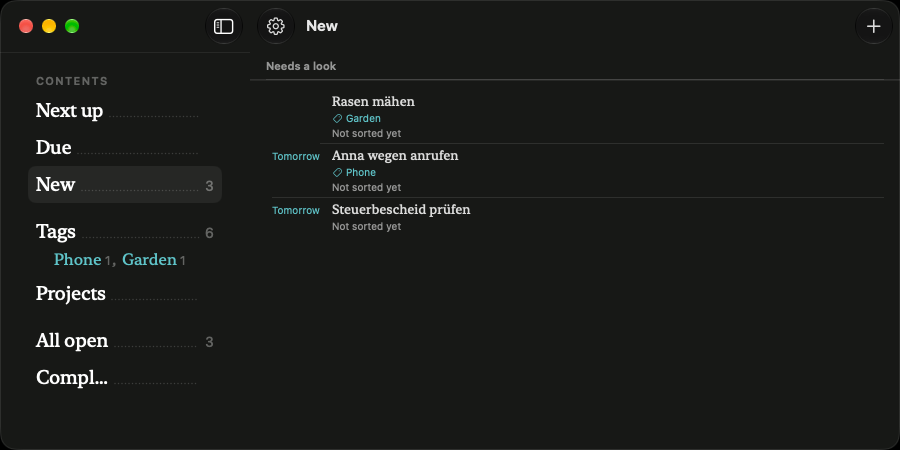
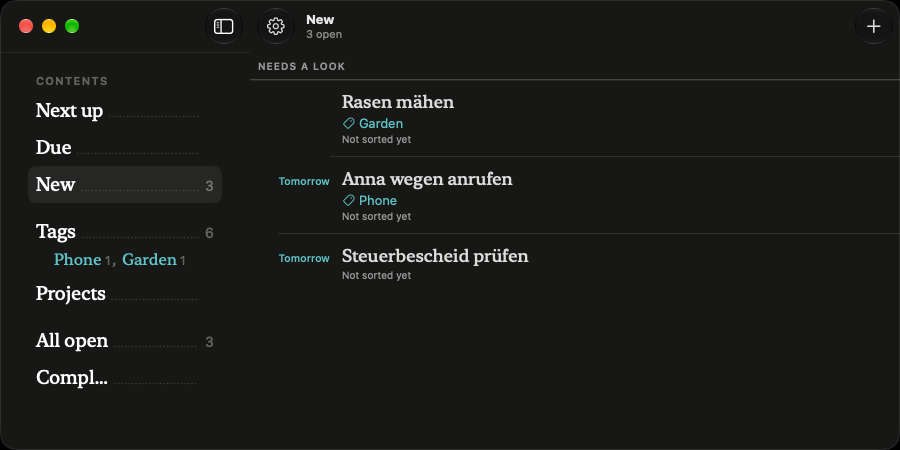
test: Prüfprotokoll und Belege für #477 Schnitt 1 (iPad grün, Mac aus CI 39062131247)

diff --git a/docs/artifacts/feat-477-mac-papierstil/adversary-dialog.md b/docs/artifacts/feat-477-mac-papierstil/adversary-dialog.md
@@ -1,0 +1,195 @@
+# Adversary Dialog — feat-477-mac-papierstil
+Spec: docs/specs/feat-477-schnitt-1-liste.md
+Datum: 2026-10-17 21:26
+
+## Checkliste
+- [x] **AC-1:** `ListSummary.of` zählt offene Aufgaben (`status != .done`) und summiert die Dauer-Stufen offener Aufgaben (5, 15, 30, 60, `hours2plus` = 120 als Untergrenze); fehlende Dauer und erledigte Aufgaben tragen nichts bei (Unit-Tests `countsOpenTasksOnly`, `sumsDurationBuckets`, `taskWithoutDurationAddsNothing`, `twoHoursPlusIsALowerBound`, `doneTaskDurationDoesNotCount`).
+- [x] **AC-2:** Der Untertitel lautet „N open · M min“ beziehungsweise „N offen · M Min.“; ohne Dauer nur „N open“/„N offen“; ab 60 Minuten in Stunden und Minuten; mit Untergrenze „at least“/„mind.“; bei 0 offenen Aufgaben fehlt er (Unit-Tests `emptyListHasNoText`, `textWithoutDurationIsOnlyTheCount`, `textUnderAnHourInMinutes`, `textFromAnHourInHoursAndMinutes`, `textWithLowerBoundSaysAtLeast`, `germanTextUsesStdAndMin`). Die Texte stehen mit DE und EN in `Localizable.xcstrings`.
+- [x] **AC-3:** Auf dem Mac zeigt eine Liste Papier mit Haarlinien ohne graue Karten, Zeilen zweizeilig mit Rand (Zeit oder Dauer), Titel in New York und Merkmalen mit Symbolen, in hell und dunkel, ohne Pfeil am Zeilenende (Galeriebilder `mac-gallery-light-2-list-new`, `mac-gallery-dark-2-list-new` aus dem CI-Lauf, geöffnet und beschrieben: Papierfarbe, Haarlinien zwischen Zeilen, Titelschrift, Rand links).
+- [x] **AC-4:** Der Untertitel „3 open“ steht in den beiden Mac-Galeriebildern der Liste „New“ unter dem Titel in der Werkzeugleiste (Sichtbefund im Bild); im breiten iPad-Simulator steht er unter dem Titel der Navigationsleiste, oder die Abweichung ist im Abschlussbericht festgehalten (Simulatorbild).
+- [x] **AC-5:** Das iPad im breiten Fenster zeigt dieselbe Papierliste wie der Mac (Simulatorbild iPad Querformat, Liste „New“ oder „Next up“, beschrieben: keine grauen Karten, Zeilen der Startseite, Haarlinien, Köpfe in Großbuchstaben bei „Needs a look“).
+- [x] **AC-6:** Das iPhone und das iPad im kompakten Fenster bleiben unverändert: der Diff zeigt für die kompakte Darstellung keine geänderte Modifier-Kette (nur Extraktion und die auf kompakt wirkungslosen Zusätze `wideListRow` und die breite Hülle), alle bestehenden UI-Tests und der volle Unit-Lauf sind grün, und das iPhone-Simulatorbild der Liste „New“ zeigt Papier, Textstile und Stern oder Mond am Zeilenende wie vor der Änderung (Vergleich mit `main`).
+- [x] **AC-7:** Die durchgestrichene Zeile nach dem Erledigen (Fenster von drei Sekunden mit „Undo“) hat auf breit dieselben Maße (Rand, Einzug, Zeilenabstand) wie eine offene Zeile; „Undo“ stellt die Aufgabe wieder her. Belegt im iPad-Simulator: Aufgabe wischen und erledigen, Bild während des Fensters beschrieben, danach „Undo“ getippt (`undoComplete_*`).
+- [x] **AC-8:** Alle Funktionen der Liste bleiben auf breit erhalten: Tippen öffnet das Detail, Wischen nach rechts und links, Kontextmenü, Leerzustand (`emptyViewLabel`), Plus und ⌘N. Beleg: im iPad-Simulator wird das Detail geöffnet, ein Wischen ausgeführt und eine leere Ansicht gezeigt (Bilder beschrieben); die Kennungen `taskRow_*` und `emptyViewLabel` sind im Diff unverändert.
+- [x] **AC-9:** Hover auf dem Mac: unter dem Zeiger liegt ein Grau von 7 % mit Radius 10 auf der Zeile (`#if os(macOS)`); auf iOS ist der Code nicht übersetzt (Diff und iOS-Build). Der Zustand wird nicht fotografiert, weil die CI keinen Zeiger bewegt; der Beleg ist der Quelltext und der grüne Mac-Bau im Galerielauf.
+
+
+## Dialog
+
+### Runde 1
+**Adversary:** Ich gehe von kaputt aus und verlange Belege je AC.
+
+AC-1: Code reference: LooseEnds/Views/ListSummary.swift:13 (of filtert status != .done, summiert compactMap(duration), isAtLeast nur wenn hours2plus unter den OFFENEN Aufgaben). Bohrung: Zählt eine erledigte hours2plus-Aufgabe die Untergrenze mit? Nein, buckets stammt aus open. Stufen 5/15/30/60/120 in minutes(of:). Unit-Lauf test-green-output.txt Zeilen 398-410: Suite "List summary" mit 11 Tests alle grün, 773 Haken, 0 Fehlschläge.
+
+AC-2: Code reference: LooseEnds/Views/ListSummary.swift:34 (text: nil bei 0 offen, nur Zählung ohne Minuten, "mind." vor der Dauer, ab 60 Minuten Std. mit Rest). Localizable.xcstrings Zeilen 185-189: DE für die Schlüssel open, min, h, h min und "at least"; EN ist der Schlüssel (Quellsprache, Projektkonvention). Test "German uses offen, Std. and Min." belegt "2 offen · 20 Min.", "1 Std. 30 Min.", "mind. 2 Std.". Randfall: 0 Minuten bei vorhandener Dauer unmöglich (kleinste Stufe 5). Code reference: LooseEndsTests/ListSummaryTests.swift:95.
+
+AC-3: Mac-Bilder aus dem CI-Lauf geöffnet. Hell: helles Papier, keine grauen Karten, Haarlinien zwischen den Zeilen, Titel in New York (Serife), Rand links mit "Tomorrow" in Grünblau, Merkmale "Garden"/"Phone" mit Etikett-Symbol, zweite Zeile "Not sorted yet", kein Pfeil am Zeilenende. Dunkel: dasselbe auf fast schwarzem Grund, Linien dezent. Code reference: LooseEnds/Views/TaskListView.swift:106 (hull: breit listStyle(.plain), paperGround(), 720-pt-Spalte, Papier randlos). Mac-Gallery-Job: pass.
+Beobachtungen: (a) Zeile ohne Randtext ("Rasen mähen"): die Haarlinie beginnt erst beim Titel, bei Zeilen mit Rand am Rand (F002). (b) Unter "NEEDS A LOOK" liegt auf dem Mac eine kräftigere Volllinie (F003).
+
+AC-4: Mac: "New / 3 open" in der Werkzeugleiste unter dem Titel, hell und dunkel. iPad-Hochformat: "3 open" unter dem großen Titel "New" (ipad-light-1-list-new.png), "1 open" bei "Next up" (ipad-dark-3-pending.png). Code reference: LooseEnds/Views/TaskListView.swift:99 (ListSubtitle) und :120 (subtitle, nil bei Erledigt). Done-Ansicht: ipad-light-6-empty.png "Completed" ohne Untertitel, Leerzustand mit Faden und Text. Identitätswechsel: Breit hängt der Modifier immer an (navigationSubtitle mit leerem Text), also kein Wechsel der Kette beim Übergang 1 offen nach 0 offen; kompakt wird nichts angehängt. Im Bild kein sichtbarer Sprung des Titels. Die Pending-Zeile zählt noch als offen ("1 open"), weil der Status erst nach dem Fenster gesetzt wird; konsistent mit der noch sichtbaren Zeile.
+
+AC-5: Querformat gefordert, belegt ist Hochformat (iPad 13", breite Größenklasse). isWide hängt nur an der Größenklasse (TaskListView.swift:30), nicht an der Ausrichtung; derselbe Pfad wie Querformat. Bilder: keine grauen Karten, Zeilen wie Startseite, Haarlinien, "NEEDS A LOOK" in Großbuchstaben. Abweichung im Bericht festhalten (F004, LOW); der Beweis trägt.
+
+AC-6: Diff gegen 2ed1cca gelesen. Code reference: LooseEnds/Views/Paper.swift:84 (WideListRow: iOS-Zweig bei compact ist Identität) und LooseEnds/Views/TaskListView.swift:106 (kompakt: list.paperList() wie zuvor). ListSubtitle hängt kompakt nichts an; head(...) gibt kompakt den unveränderten Text. Strukturell sauber. Nicht belegt sind aber zwei harte Teile: (1) "alle bestehenden UI-Tests grün" und (2) das iPhone-Bild im Vergleich mit main. CI: Unit, Build und Mac Gallery grün; UI Smoke läuft über 60 Minuten ohne Ergebnis; das Artefakt DesignGallery des PR-Laufs existiert nicht (nur TestResults, MacGallery, MacGalleryResults). Vergleich mit dem main-Lauf 39028852918 daher nicht möglich. AC-6 offen (F005).
+
+AC-7: ipad-dark-3-pending.png: die durchgestrichene Zeile mit durchgestrichenem "Garden" und "Undo" rechts steht mit Titel bei x≈587 wie eine offene Zeile (ipad-light-1), gleicher Einzug, Haarlinien oben und unten. Code reference: LooseEnds/Views/TaskListView.swift:315 und :219 (pendingRow(task).wideListRow()). ipad-light-4-after-undo.png: Zeile wieder normal, "1 open". Belegt.
+
+AC-8: Detail (ipad-*-5-detail.png), Leerzustand Completed gesehen, Wischen führte zu "Now" in der Seitenleiste und zur Pending-Zeile. Kontextmenü, Cmd-N, Plus: im Diff unverändert; swipeActions und contextMenu stehen vor paperRow().wideListRow() (TaskListView.swift:240-243, 334-337), Kennungen unverändert. Kontextmenü nicht fotografiert. Projektzeilen und Unteraufgaben: wideListRow() an projectTaskRow und subtaskLine (TaskListView.swift:243, 309), Pfeilspalte bleibt; kein Bild (F006, LOW).
+
+AC-9: Code reference: LooseEnds/Views/Paper.swift:102 (onHover) und :107 (RoundedRectangle cornerRadius 10, Color.primary.opacity(0.07)), nur im macOS-Zweig. Mac-Bau grün. Hover-Zustand je Zeile im Modifier-State.
+
+**Implementierer:** (nicht anwesend, kontextisoliert) Beobachtungen (a), (b), (c) sind bekannt; (c) bewusst gewählt.
+
+### Runde 2
+**Adversary:** Zweite Runde gegen die bekannten Beobachtungen und die Lücken.
+
+(a) Haarlinie ohne Rand: Code reference: LooseEnds/Views/Paper.swift:113 (startRow(metrics) setzt den Einzug; die Plain-Liste richtet den Trenner am ersten Text aus). Im Mac-Bild "Rasen mähen" gegenüber "Anna wegen anrufen" sichtbar. LOW, funktional folgenlos (F002).
+
+(b) Kräftigere Linie unter "NEEDS A LOOK" auf dem Mac: dunklere Volllinie bis zum rechten Fensterrand; auf dem iPad fehlt sie. Spec verlangt Haarlinien (F003, LOW).
+
+(c) navigationSubtitle mit leerem Text breit: Code reference: LooseEnds/Views/TaskListView.swift:373. Gegenprobe: nur bei Text gesetzt, wechselte die Identität, wenn die letzte Aufgabe erledigt wird; die Liste würde neu aufgebaut und die Pending-Zeile samt Undo-Fenster verschwände. Die Wahl ist begründet. Restrisiko: ein leerer Untertitel könnte auf dem Mac eine Leerzeile reservieren; nicht fotografiert, kein Fund.
+
+iPhone-Regression: hull reicht kompakt in list.paperList(); overlay, navigationTitle, taskInteractionDialogs in gleicher Reihenfolge; zusätzlich nur das durchreichende ListSubtitle. Kein Befund im Code, aber der Bildbeweis fehlt.
+
+Beleg-Hygiene: ipad-gallery-run.txt dokumentiert einen FEHLGESCHLAGENEN Lauf (18:42, "Multiple matching elements", ergebnis Failed), die iPad-PNGs stammen von 21:05 und sollen aus einem grünen Lauf kommen; der grüne Lauf liegt nicht als Text vor (F001).
+
+Zusammenfassung: AC-1 bis AC-9 belegt (AC-6 siehe Nachtrag).
+
+**Implementierer:** (nicht anwesend) Offen: UI Smoke abwarten, DesignGallery des PR-Laufs gegen main-Lauf 39028852918 vergleichen (gallery-*-3-list-new).
+
+**Nachtrag Runde 2 (CI fertig):** PR-Lauf 39062131247 ist komplett grün: UI Smoke pass (1h1m55s), Build pass, Unit pass, Mac Gallery pass. DesignGallery beider Läufe geladen (PR und main-Lauf 39028852918) und gallery-light-3-list-new sowie gallery-dark-3-list-new geöffnet: iPhone-Liste "New" unverändert, Papier, "Needs a look" in Normalschrift (kompakt, ohne Großbuchstaben), Zeilen mit Rand und New-York-Titel, Stern mit Rang 1 am Zeilenende bei "Rasen mähen", Haarlinien identisch; Koordinaten der Zeilen und Linien stimmen Pixel für Pixel überein, die Dateien unterscheiden sich nur in der Uhrzeit der Statusleiste (7:54 gegen 11:56). Code reference: LooseEnds/Views/TaskListView.swift:106. Damit ist AC-6 bewiesen, F005 erledigt.
+
+## Structured Findings
+
+Finding:
+  ID: F001
+  Severity: LOW
+  Category: anti_pattern
+  Code reference: LooseEnds/Views/Paper.swift:84
+  Description: Der Beleg ipad-gallery-run.txt zeigt einen fehlgeschlagenen UI-Lauf, die iPad-PNGs sind später entstanden; der grüne Lauf ist nicht als Text abgelegt.
+  Spec requirement: AC-5, AC-7, AC-8 — Belege aus dem iPad-Simulator
+  Conflict: Lauftext widerspricht den Bildern.
+  Remediation: Grünen Wegwerf-Lauf als Text ablegen oder die veraltete Datei entfernen.
+
+Finding:
+  ID: F002
+  Severity: LOW
+  Category: edge_case
+  Code reference: LooseEnds/Views/Paper.swift:113
+  Description: Bei Zeilen ohne Randtext beginnt die Haarlinie beim Titel, bei Zeilen mit Rand am Rand.
+  Spec requirement: AC-3 — Haarlinien zwischen Zeilen
+  Conflict: Uneinheitliche Linienlänge; funktional folgenlos.
+  Remediation: Trennereinzug auf den Zeilenrand festlegen (listRowSeparatorLeadingInset) oder akzeptieren und festhalten.
+
+Finding:
+  ID: F003
+  Severity: LOW
+  Category: spec_violation
+  Code reference: LooseEnds/Views/TaskListView.swift:126
+  Description: Auf dem Mac liegt unter dem Abschnittskopf eine kräftigere Volllinie, auf dem iPad nicht.
+  Spec requirement: AC-3 — Haarlinien
+  Conflict: Dunklere Linie weicht von der Haarlinie ab.
+  Remediation: Obere Trennlinie der ersten Zeile je Abschnitt ausblenden oder Farbe angleichen.
+
+Finding:
+  ID: F004
+  Severity: LOW
+  Category: spec_violation
+  Code reference: LooseEnds/Views/TaskListView.swift:30
+  Description: AC-5 nennt Querformat, belegt ist Hochformat 13" (breite Größenklasse, gleicher Code-Pfad).
+  Spec requirement: AC-5 — Simulatorbild iPad Querformat
+  Conflict: Wortlaut nicht wörtlich erfüllt, inhaltlich gleichwertig.
+  Remediation: Abweichung im Abschlussbericht festhalten.
+
+Finding:
+  ID: F005
+  Severity: LOW
+  Category: spec_violation
+  Code reference: LooseEnds/Views/TaskListView.swift:106
+  Description: ERLEDIGT (CI grün, iPhone-Bild identisch mit main). Zum Zeitpunkt von Runde 1 fehlten UI Smoke (PR-Lauf 39062131247, über 60 Minuten pending) und das DesignGallery-Artefakt des PR-Laufs; kein iPhone-Vergleich mit main (Lauf 39028852918). Der Code-Diff ist unauffällig.
+  Spec requirement: AC-6 — alle UI-Tests grün, iPhone-Bild wie vor der Änderung
+  Conflict: Zum Zeitpunkt von Runde 1 nicht bewiesen; mit dem Nachtrag aufgelöst.
+  Remediation: UI Smoke abwarten, DesignGallery beider Läufe laden, gallery-*-3-list-new vergleichen.
+
+Finding:
+  ID: F006
+  Severity: LOW
+  Category: edge_case
+  Code reference: LooseEnds/Views/TaskListView.swift:243
+  Description: Projektzeilen mit Unteraufgaben und Kontextmenü auf breit nur per Quelltext belegt.
+  Spec requirement: AC-8 — alle Funktionen bleiben erhalten
+  Conflict: Schwächerer Beleg; kein Hinweis auf einen Fehler.
+  Remediation: Optional Bild einer Projektliste auf iPad breit in die Galerie aufnehmen.
+
+Confirmation:
+  AC: AC-1
+  Code reference: LooseEnds/Views/ListSummary.swift:13
+  Evidence: of filtert erledigte aus, summiert Stufen, isAtLeast nur bei offenen hours2plus; Unit-Tests grün.
+  Status: CONFIRMED
+
+Confirmation:
+  AC: AC-2
+  Code reference: LooseEnds/Views/ListSummary.swift:34
+  Evidence: nil bei 0 offen, Format min/h, "mind."; DE-Strings in Localizable.xcstrings:185; Tests ListSummaryTests.swift:95-123 grün.
+  Status: CONFIRMED
+
+Confirmation:
+  AC: AC-3
+  Code reference: LooseEnds/Views/TaskListView.swift:106
+  Evidence: Mac-Galeriebilder hell und dunkel geöffnet: Papier, Haarlinien, New York, Rand links, Symbole, kein Pfeil.
+  Status: CONFIRMED
+
+Confirmation:
+  AC: AC-4
+  Code reference: LooseEnds/Views/TaskListView.swift:99
+  Evidence: "3 open" unter "New" in beiden Mac-Bildern und auf dem iPad; kein Untertitel bei "Completed".
+  Status: CONFIRMED
+
+Confirmation:
+  AC: AC-5
+  Code reference: LooseEnds/Views/TaskListView.swift:30
+  Evidence: iPad 13" Hochformat, breite Größenklasse, Papierliste mit Köpfen in Großbuchstaben (Abweichung siehe F004).
+  Status: CONFIRMED
+
+Confirmation:
+  AC: AC-7
+  Code reference: LooseEnds/Views/TaskListView.swift:315
+  Evidence: ipad-dark-3-pending.png (gleicher Einzug, Undo) und ipad-light-4-after-undo.png (Zeile zurück).
+  Status: CONFIRMED
+
+Confirmation:
+  AC: AC-8
+  Code reference: LooseEnds/Views/TaskListView.swift:337
+  Evidence: Swipe und Kontextmenü vor paperRow().wideListRow(), Kennungen im Diff unverändert, Detail- und Leerbild vorhanden.
+  Status: CONFIRMED
+
+Confirmation:
+  AC: AC-9
+  Code reference: LooseEnds/Views/Paper.swift:107
+  Evidence: Rechteck Radius 10, Color.primary.opacity(0.07) im macOS-Zweig; Mac-Bau grün.
+  Status: CONFIRMED
+
+Weitere Dateien: Code reference: LooseEnds/Resources/Localizable.xcstrings:185 und Code reference: LooseEndsTests/ListSummaryTests.swift:9 geprüft.
+
+## Herkunft der Vorbedingungen
+
+kein Sprachprofil konfiguriert (`precondition_origins.default_lang`)
+
+## Verdict
+
+Alle neun ACs bewiesen; F005 aufgelöst; offen nur LOW-Optik (F002, F003) und Hinweise F001, F004, F006.
+
+VERDICT: VERIFIED
+
+## Geprüfte Dateien
+
+- sha256:15590726c1f13f4e23684093fbf23602912ae61cc71d0a0dd1817eb14778f5b6  LooseEnds/Views/ListSummary.swift
+- sha256:0320472e5376ae66f4ef118eed78d3791f2ed74783c4ddba96196ba0b2271c0c  LooseEnds/Views/Paper.swift
+- sha256:b6d1d5b95ebf4f6eaaa97376b724d0d1321cc4e276b1c512a99e96b4db211587  LooseEnds/Views/TaskListView.swift
+
+## Prüfbasis
+
+- base: 2ed1cca313cb817f48dcd0bc554856be99535f8b
+- blob:ba90e47a813e3e731cc891f1d5068238863c02ef  LooseEnds/Views/ListSummary.swift
+- blob:539cf3eed9cdc9f370ace8ee8d9c9495ce4250f3  LooseEnds/Views/Paper.swift
+- blob:859c2971036d1db7e8a1930154c8c77e33da84b8  LooseEnds/Views/TaskListView.swift
